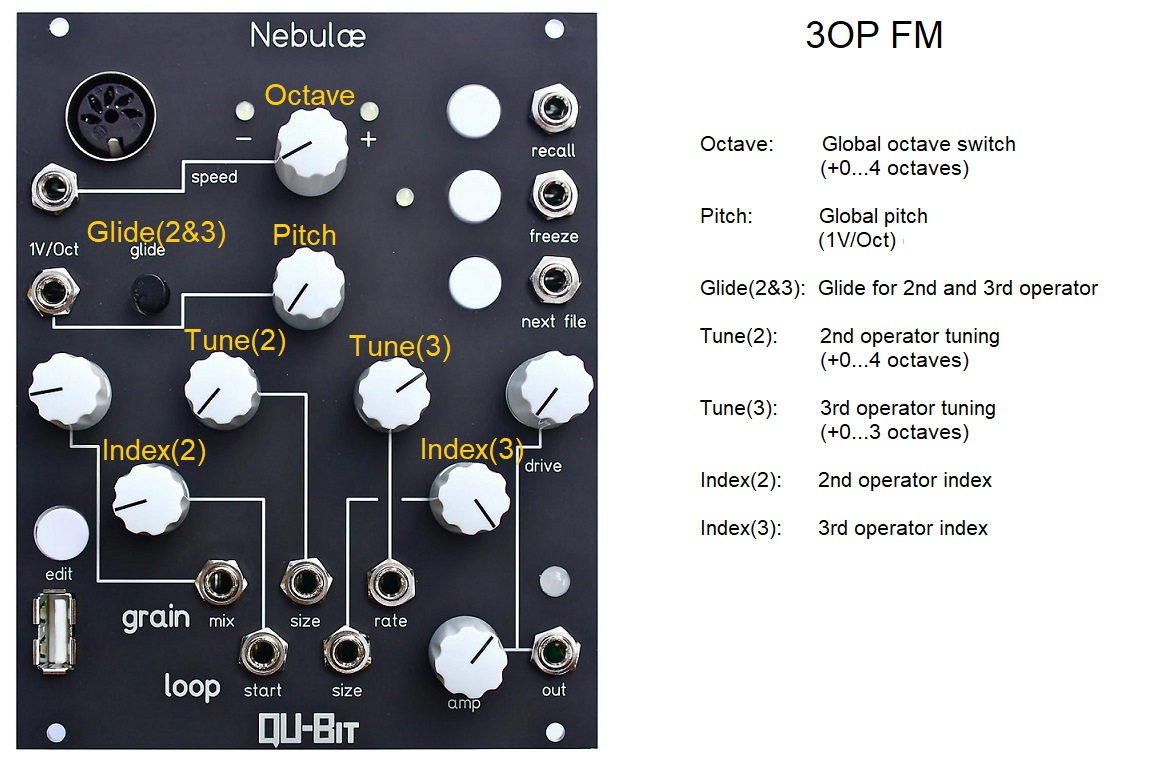
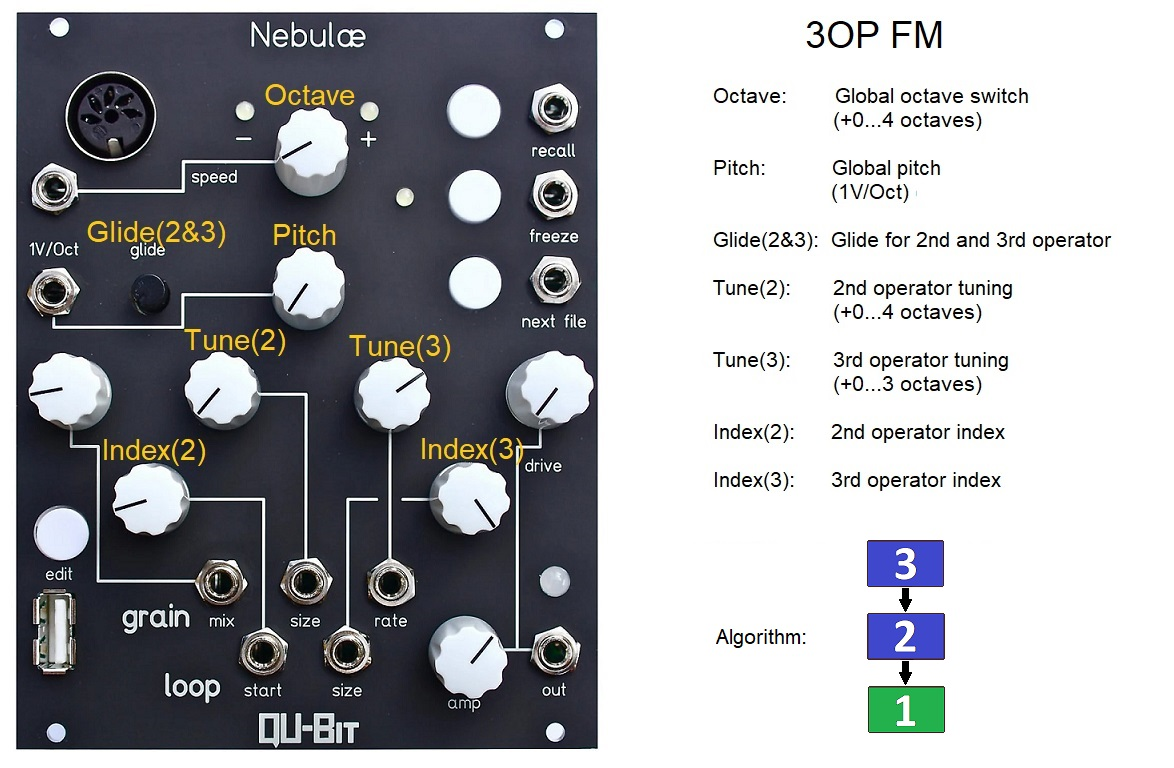
combined 3OP_FM images

Changed region(s): [[0.5826, 0.0938, 0.9506, 0.9688], [0.6133, 0.8125, 0.7053, 0.8438]]

diff --git a/README.md b/README.md
@@ -6,7 +6,7 @@ Alternate instruments: https://www.qubitelectronix.com/nebul-alt-instruments/ <b
 
 ## Description of the instruments:
 
-### 3OP_FM
+### 3OP FM
 Oscillator build of three stacked FM operators, 3rd modulating 2nd, 2nd modulating 1st (basically a half of the 3rd DX7 algorithm)
 
 * speed knob: global octave switch (+0...4 octaves)
@@ -19,9 +19,7 @@ Oscillator build of three stacked FM operators, 3rd modulating 2nd, 2nd modulati
 
 <img src="Nebulae_3OP_FM\Nebulae_3OP_FM_manual.jpg" width="587" height="384">
 
-<img src="Nebulae_3OP_FM/Nebulae_3OP_FM_algo.png" width="107" height="218">
-
-3OP_FM Video demo:
+3OP FM Video demo:
 
 <a href="http://www.youtube.com/watch?feature=player_embedded&v=KAsKHrH6iwU
 " target="_blank"><img src="http://img.youtube.com/vi/KAsKHrH6iwU/0.jpg" 
@@ -67,7 +65,7 @@ One-part drum generator capable of storing and editing 4 presets (resets after p
 
 <img src="Nebulae_DrDrum\Nebulae_DrDrum_manual.jpg" width="587" height="384">
 
-### Dual_Osc
+### Dual Osc
 Dual oscillator with continuously variable waveshape + low pass filter
 * speed knob: 2nd oscillator tune (-/+ 7 semitones)
 * glide knob: fm modulation amount (2nd oscillator modulates 1st oscillator frequency)
